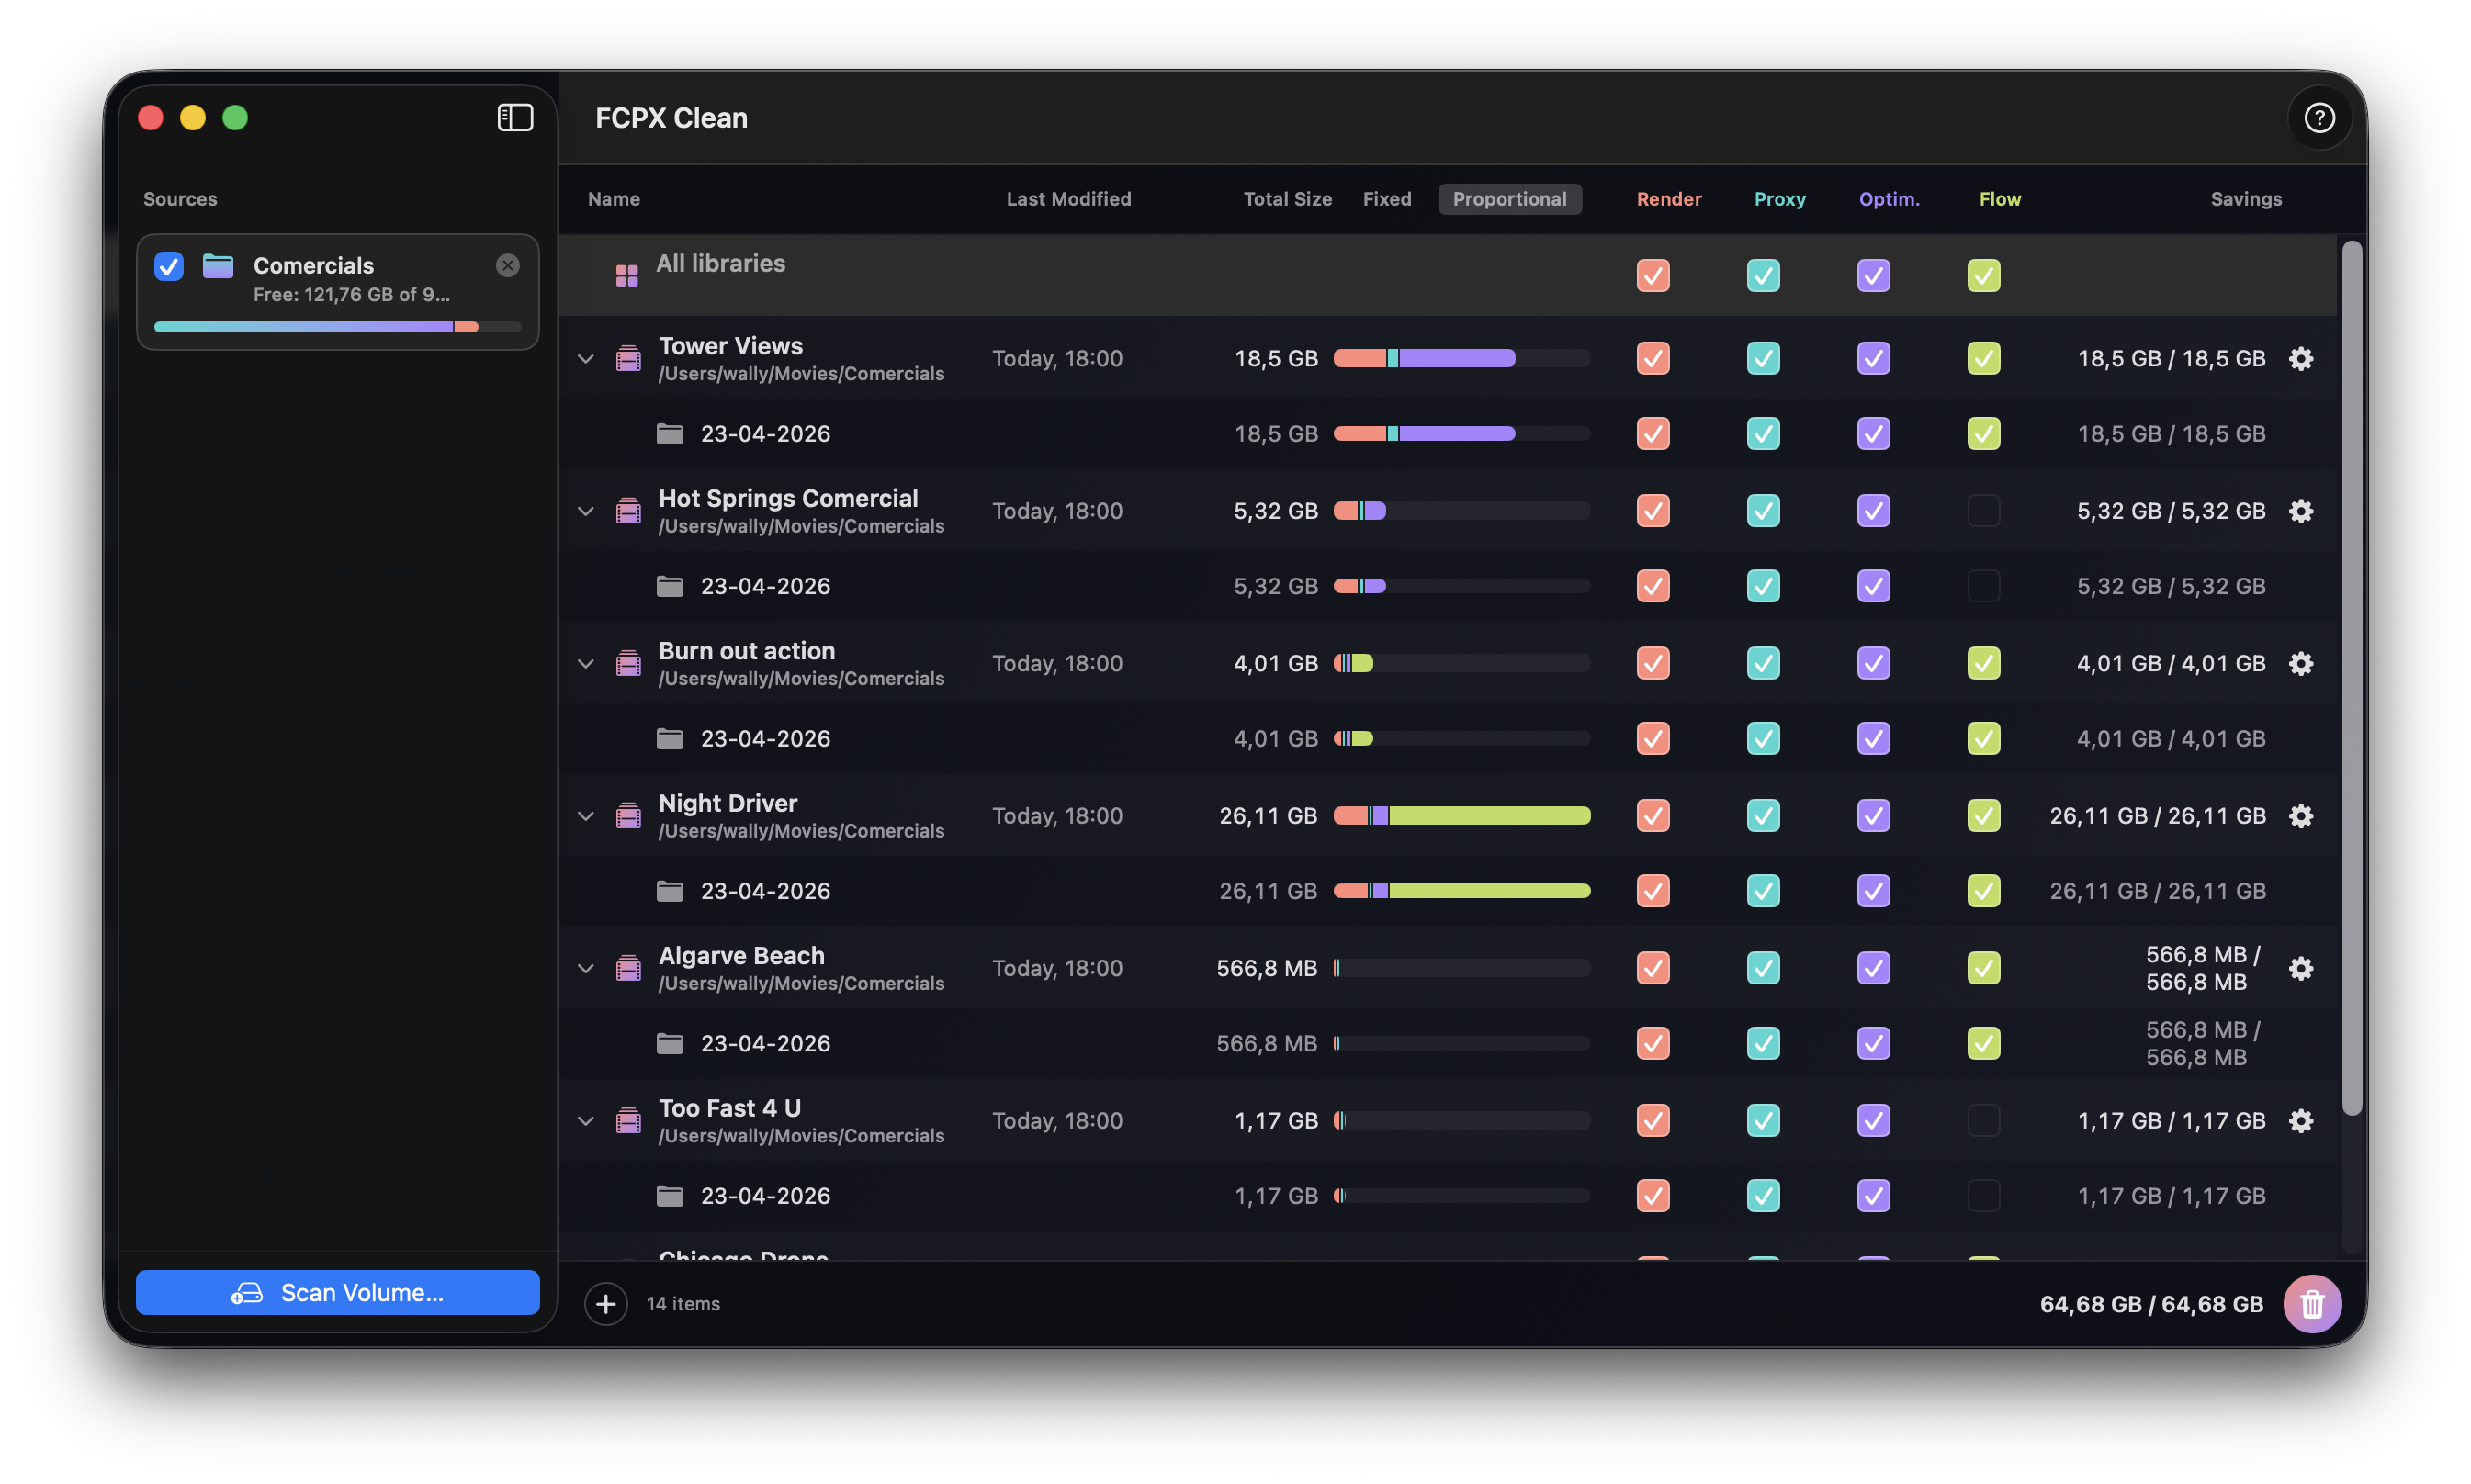
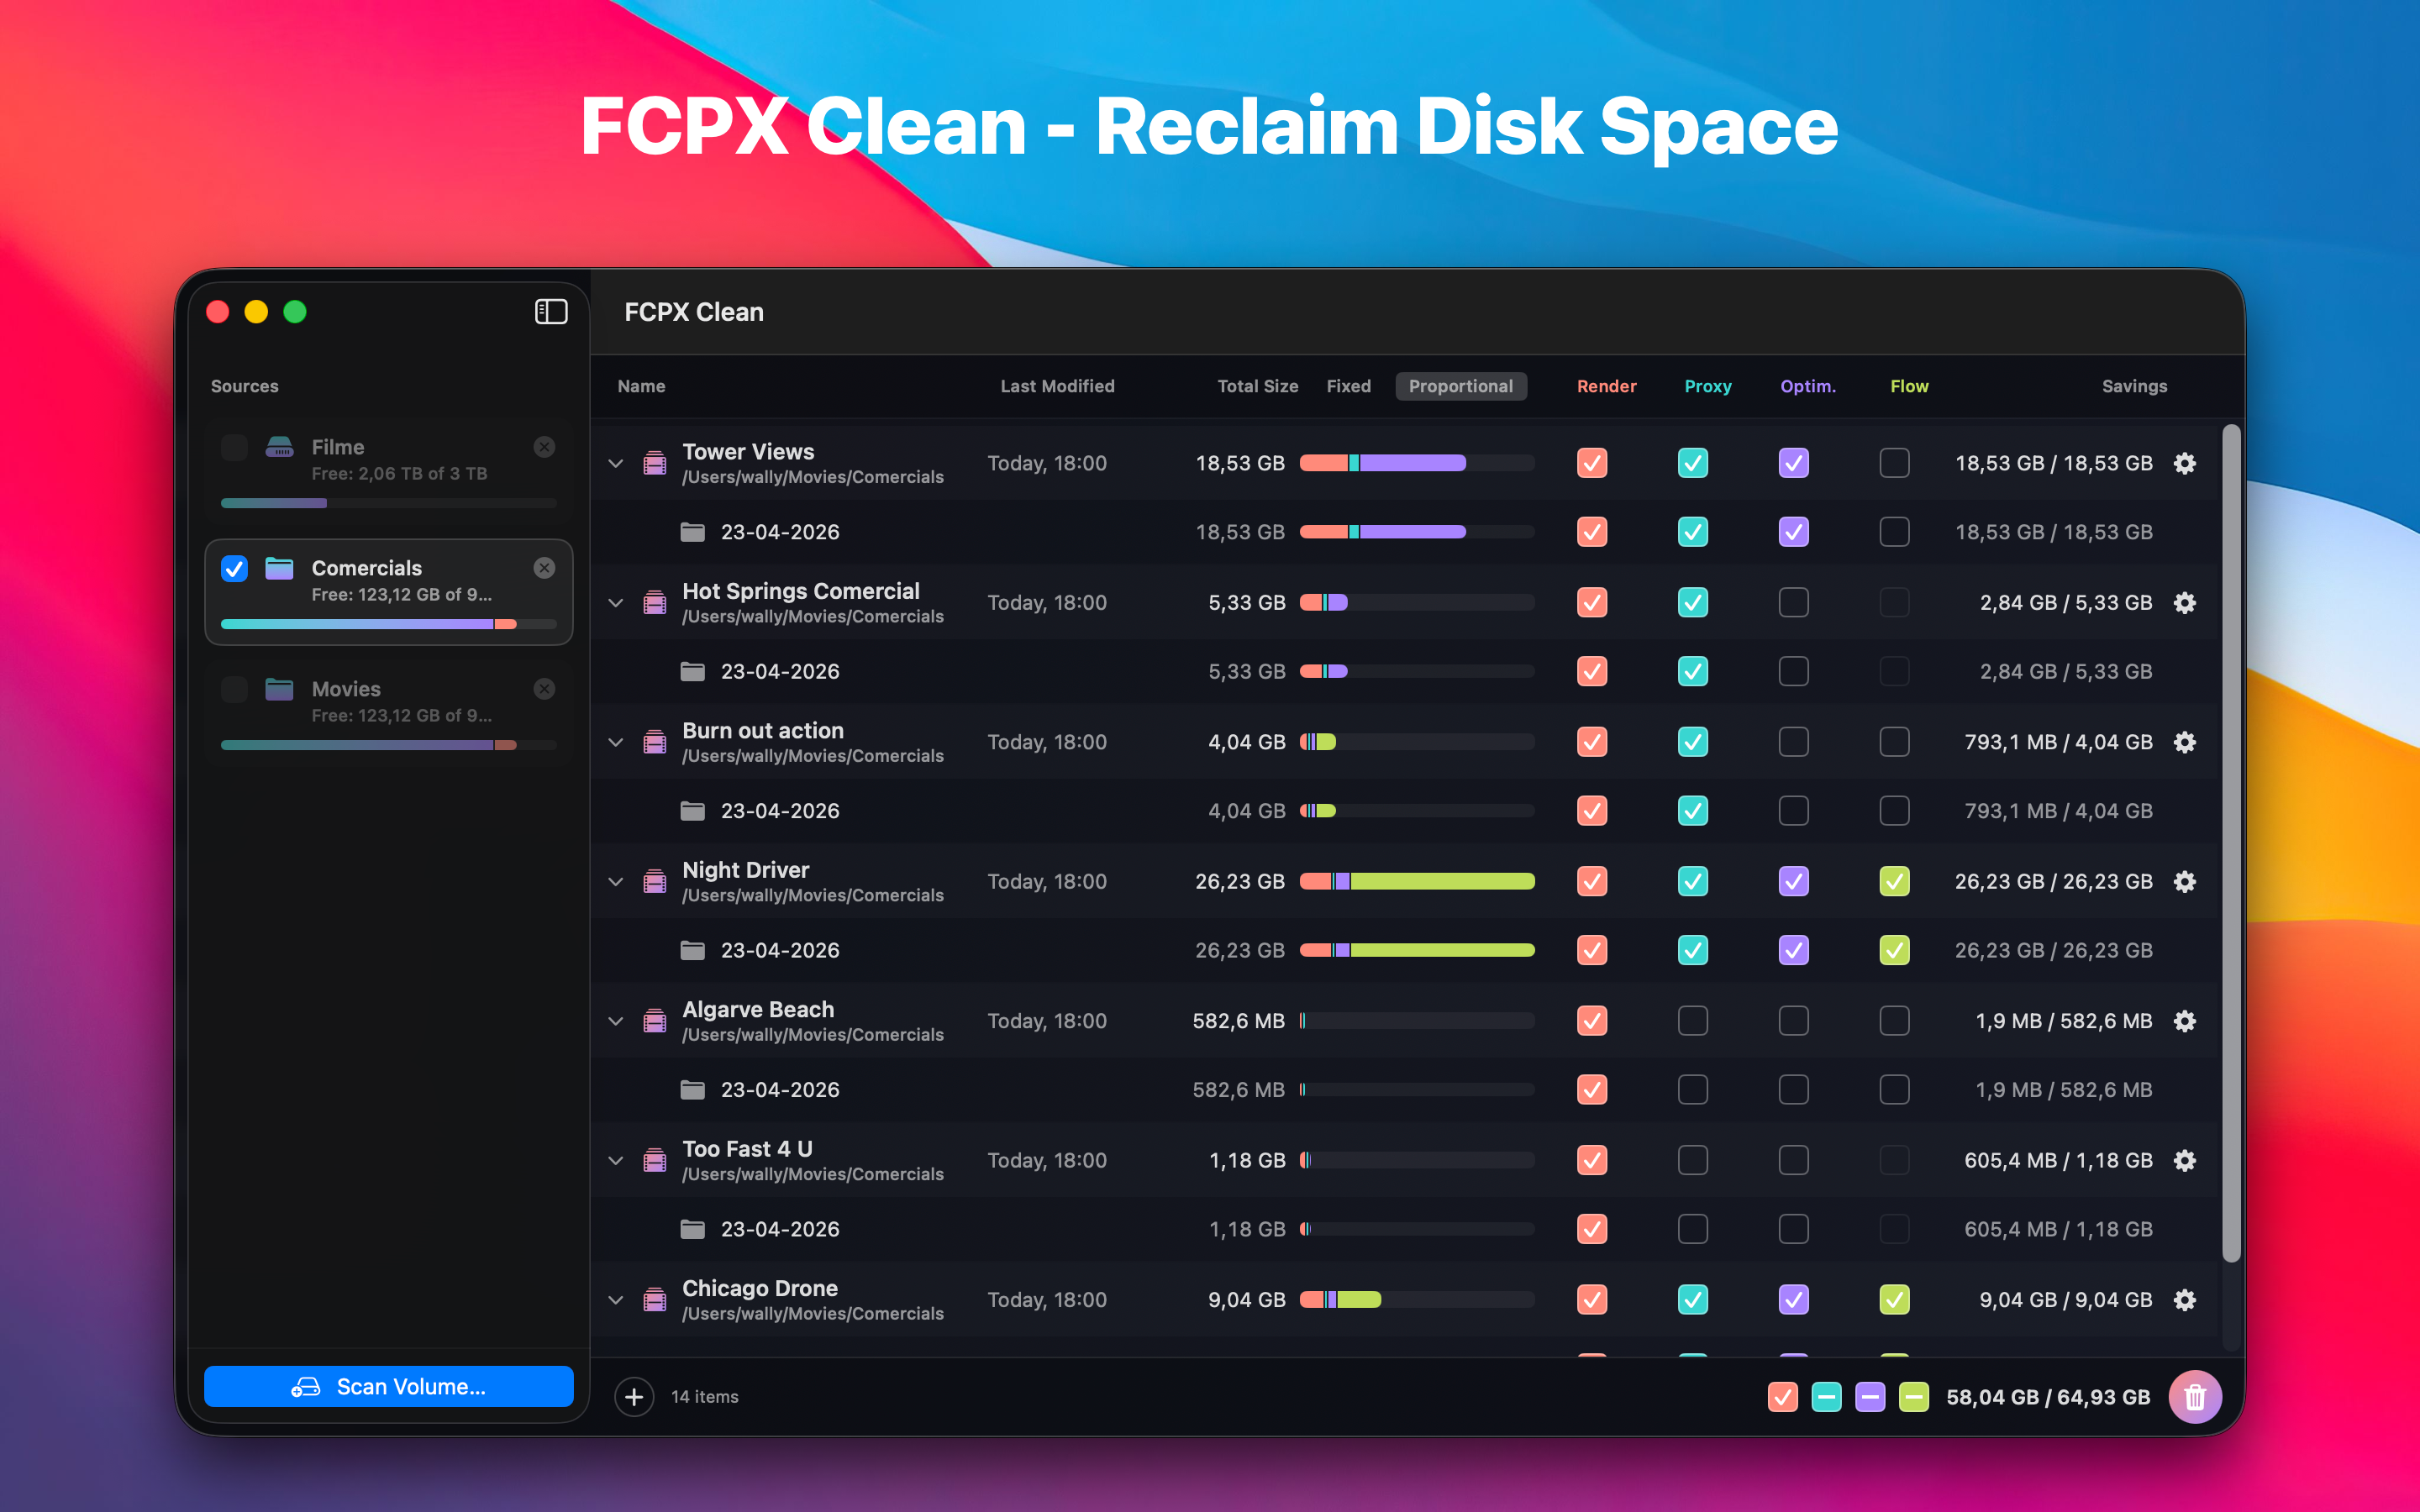
FCPXClean: swap in App Store marketing screenshots
Replace the raw captures with the polished App Store background
renders (FCPX Clean 1 / 4 / 5): hero with 'Reclaim Disk Space'
title, master-row sweep showing the 64.68 GB gain, and the
Move-to-Trash confirmation sheet. Drops the help screenshot in
favour of these three flashier marketing shots.

diff --git a/FCPXClean/index.html b/FCPXClean/index.html
@@ -85,11 +85,21 @@
                 <div class="gallery-grid">
                     <div class="shot feature">
                         <figure>
-                            <img src="shot-main.png" alt="FCPX Clean main window showing a scanned Comercials folder with seven Final Cut Pro libraries, colored proportional bars per library, and tri-state checkboxes for Render, Proxy, Optim. and Flow categories" loading="lazy">
+                            <img src="shot-main.png" alt="FCPX Clean main window showing a scanned Comercials folder with Final Cut Pro libraries, colored proportional bars per library, and tri-state checkboxes for Render, Proxy, Optim. and Flow categories" loading="lazy">
                         </figure>
                         <div class="shot-caption">
-                            <span class="shot-kicker" style="--shot-color: var(--render);">Main view</span>
-                            <span class="shot-title">Libraries, events and proportional bars in a single scrollable table — with a sticky "All libraries" row that sweeps every category at once.</span>
+                            <span class="shot-kicker" style="--shot-color: var(--render);">Reclaim disk space</span>
+                            <span class="shot-title">Every Final Cut Pro library on the volume, its events, and exactly where the gigabytes live — in a single scrollable table.</span>
+                        </div>
+                    </div>
+
+                    <div class="shot">
+                        <figure>
+                            <img src="shot-gain.png" alt="FCPX Clean main view with the sticky All libraries master row across the top and a total savings of 64.68 GB visible in the bottom toolbar" loading="lazy">
+                        </figure>
+                        <div class="shot-caption">
+                            <span class="shot-kicker" style="--shot-color: var(--analysis);">Look at the gain</span>
+                            <span class="shot-title">Tick a category on the master row and every library is swept at once. The bottom toolbar counts the gigabytes you're about to free.</span>
                         </div>
                     </div>
 
@@ -100,16 +110,6 @@
                         <div class="shot-caption">
                             <span class="shot-kicker" style="--shot-color: var(--optimized);">Confirm · Trash</span>
                             <span class="shot-title">Every cleanup is reviewed: folder count, total size, breakdown per category. Nothing is permanently deleted.</span>
-                        </div>
-                    </div>
-
-                    <div class="shot">
-                        <figure>
-                            <img src="shot-help.png" alt="Help window with step-by-step instructions explaining how FCPX Clean works, the four cache categories, and keyboard shortcuts" loading="lazy">
-                        </figure>
-                        <div class="shot-caption">
-                            <span class="shot-kicker" style="--shot-color: var(--proxy);">Help window</span>
-                            <span class="shot-title">Built-in onboarding. Every cache category is explained, every step walked through.</span>
                         </div>
                     </div>
                 </div>